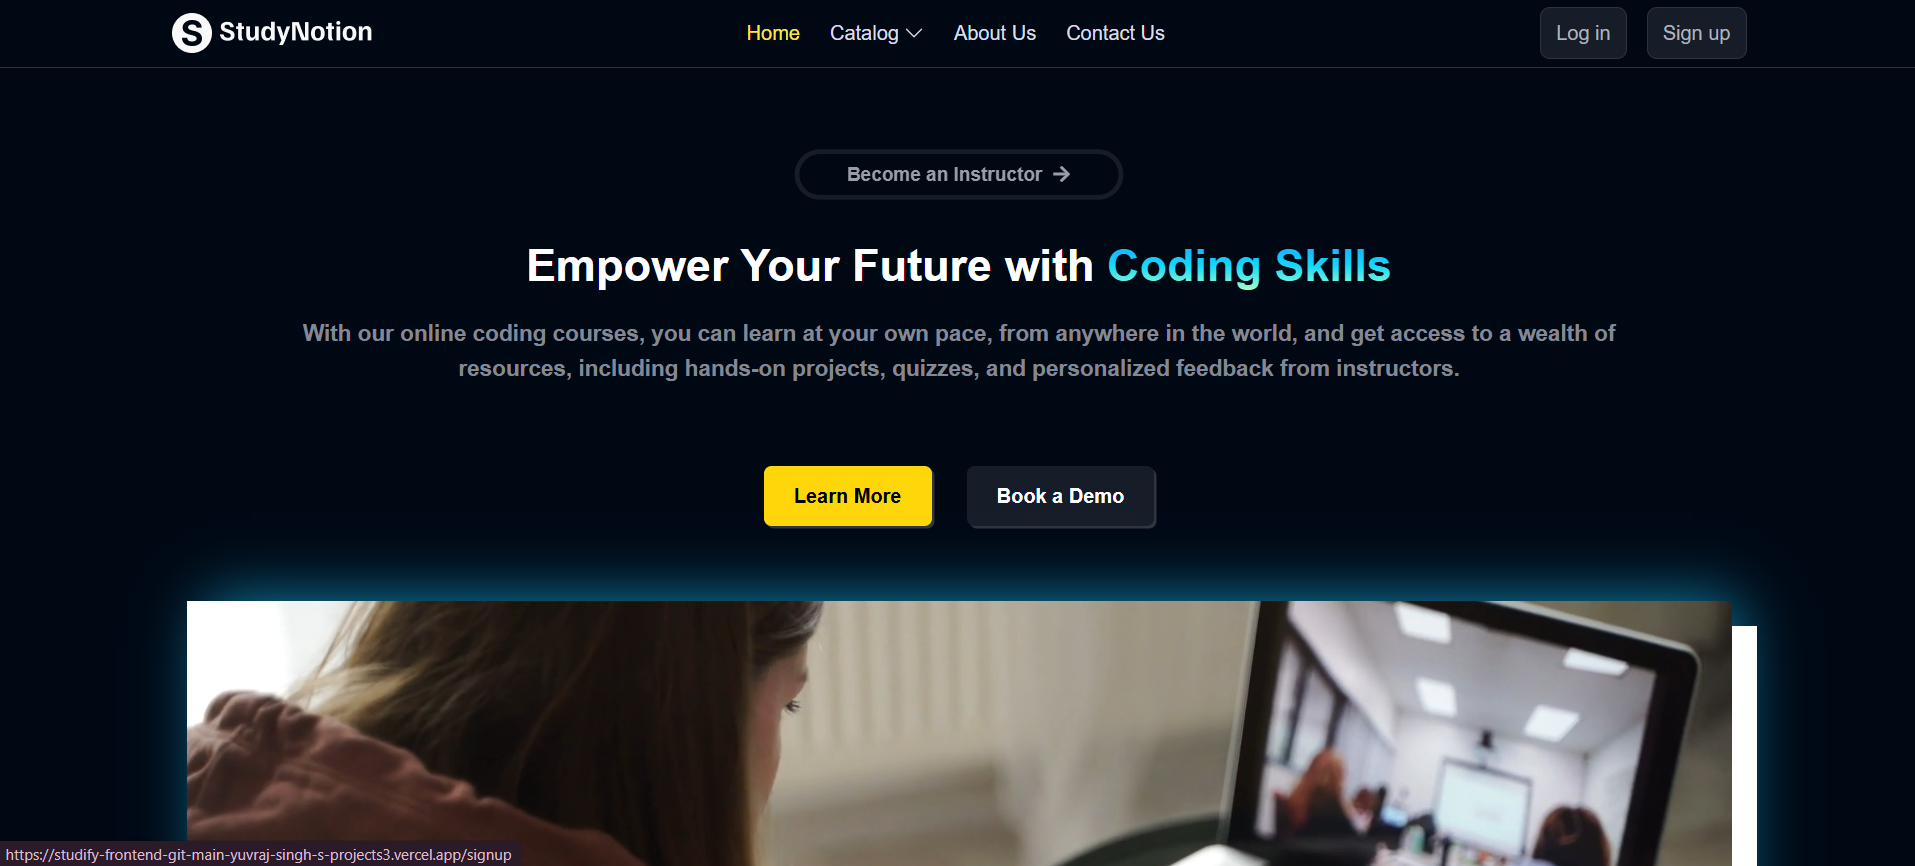
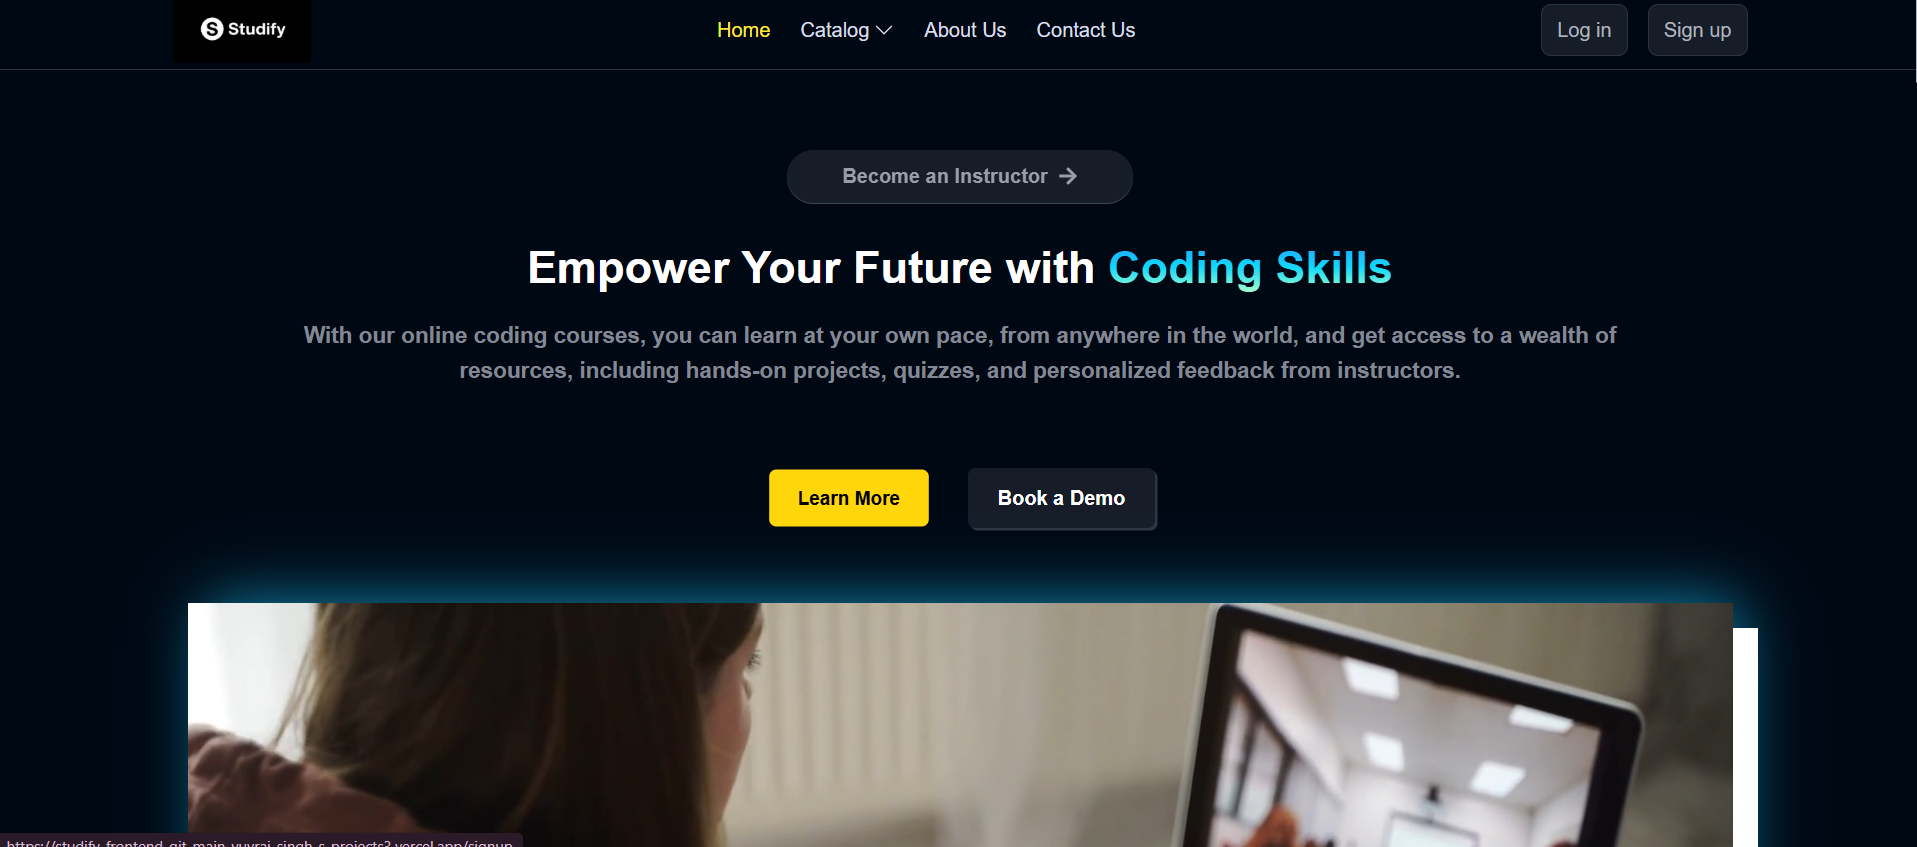
Update README and project screenshots

diff --git a/client/src/components/core/HomePage/InstructorSection.jsx b/client/src/components/core/HomePage/InstructorSection.jsx
@@ -1,44 +1,43 @@
-import React from 'react'
+import React from "react";
 import CTAButton from "../../../components/core/HomePage/Button";
 import { FaArrowRight } from "react-icons/fa";
 import Instructor from "../../../assets/Images/Instructor.png";
-import HighlightText from './HighlightText';
+import HighlightText from "./HighlightText";
 
 const InstructorSection = () => {
   return (
     <div>
-        <div className="flex flex-col lg:flex-row gap-20 items-center">
-          <div className="lg:w-[50%]">
-            <img
-              src={Instructor}
-              alt=""
-              className="shadow-white shadow-[-20px_-20px_0_0]"
-            />
-          </div>
-          <div className="lg:w-[50%] flex gap-10 flex-col">
-            <h1 className="lg:w-[50%] text-4xl font-semibold ">
-              Become an
-              <HighlightText text={"instructor"} />
-            </h1>
+      <div className="flex flex-col lg:flex-row gap-20 items-center">
+        <div className="lg:w-[50%]">
+          <img
+            src={Instructor}
+            alt=""
+            className="shadow-white shadow-[-20px_-20px_0_0]"
+          />
+        </div>
+        <div className="lg:w-[50%] flex gap-10 flex-col">
+          <h1 className="lg:w-[50%] text-4xl font-semibold">
+            Share Your <HighlightText text="Knowledge" />
+          </h1>
 
-            <p className="font-medium text-[16px] text-justify w-[90%] text-richblack-300">
-              Instructors from around the world teach millions of students on
-              StudyNotion. We provide the tools and skills to teach what you
-              love.
-            </p>
+          <p className="font-medium text-[16px] text-justify w-[90%] text-richblack-300">
+            Join Studify as an instructor and inspire thousands of learners by
+            creating high-quality courses. Share your expertise, reach a global
+            audience, and build your teaching career.
+          </p>
 
-            <div className="w-fit">
-              <CTAButton active={true} linkto={"/signup"}>
-                <div className="flex items-center gap-3">
-                  Start Teaching Today
-                  <FaArrowRight />
-                </div>
-              </CTAButton>
-            </div>
+          <div className="w-fit">
+            <CTAButton active={true} linkto={"/signup"}>
+              <div className="flex items-center gap-3">
+                Start Teaching
+                <FaArrowRight />
+              </div>
+            </CTAButton>
           </div>
         </div>
+      </div>
     </div>
-  )
-}
+  );
+};
 
-export default InstructorSection
+export default InstructorSection;

diff --git a/client/public/index.html b/client/public/index.html
@@ -4,22 +4,13 @@
 <head>
   <meta charset="utf-8" />
   <meta name="viewport" content="width=device-width, initial-scale=1" />
-  <title>React & Tailwind CSS Starter Pack</title>
+  <title>Studify | Learning Management System</title>
 </head>
 
 <body>
   <noscript>You need to enable JavaScript to run this app.</noscript>
   <div id="root"></div>
-  <!--
-      This HTML file is a template.
-      If you open it directly in the browser, you will see an empty page.
-
-      You can add webfonts, meta tags, or analytics to this file.
-      The build step will place the bundled scripts into the <body> tag.
-
-      To begin the development, run `npm start` or `yarn start`.
-      To create a production bundle, use `npm run build` or `yarn build`.
-    -->
+  
 </body>
 
 </html>

diff --git a/README.md b/README.md
@@ -36,19 +36,19 @@ https://studify-backend-7ghk.onrender.com
 
 ## Tech Stack
 
-Frontend
+### Frontend
 - React.js
 - Redux Toolkit
 - Tailwind CSS
 - React Router
 
-Backend
+### Backend
 - Node.js
 - Express.js
 - MongoDB
 - Mongoose
 
-Other Tools
+### Other Tools
 - Cloudinary
 - Razorpay
 - JWT Authentication
@@ -58,18 +58,11 @@ Other Tools
 
 ---
 
-
 ## 📸 Screenshots
 
 ### 🏠 Home Page
 
 ![Home Page](./screenshots/home-page.png)
-
----
-
-### 👤 Student Profile
-
-![Student Profile](./screenshots/student-profile.png)
 
 ---
 
@@ -79,23 +72,23 @@ Other Tools
 
 ---
 
-### 📚 Course Management
+### 👨🏫 Instructor Profile
 
-![Course Management](./screenshots/my-courses.png)
-
----
-
-### 💳 Razorpay Payment Gateway
-
-![Payment Gateway](./screenshots/payment-gateway.png)
+![Instructor Profile](./screenshots/instructor-profile.png)
 
 ---
 
-### ✅ Payment Successful
+### 👤 Student Profile
 
-![Payment Success](./screenshots/payment-success.png)
+![Student Profile](./screenshots/student-profile.png)
+
 ---
 
+### 📚 Enrolled Courses
+
+![Enrolled Courses](./screenshots/my-courses.png)
+
+---
 
 ## Run Locally
 
@@ -135,7 +128,7 @@ npm run dev
 
 ## Environment Variables
 
-Backend
+### Backend
 
 ```env
 PORT=
@@ -149,7 +142,7 @@ RAZORPAY_SECRET=
 CLIENT_URL=
 ```
 
-Frontend
+### Frontend
 
 ```env
 REACT_APP_BASE_URL=https://studify-backend-7ghk.onrender.com/api/v1
@@ -172,20 +165,22 @@ Building this project helped me understand:
 
 ---
 
+## Challenges Faced
+
+- Managing multiple user roles (Student & Instructor)
+- Integrating Razorpay payment verification
+- Handling secure JWT authentication
+- Uploading videos and images using Cloudinary
+- Deploying frontend and backend separately while configuring CORS
+
+---
+
 ## Author
 
-Yuvraj Singh
+**Yuvraj Singh**
 
 GitHub:
 https://github.com/yuv400
 
 LinkedIn:
 https://www.linkedin.com/in/yuvraj-singh-312581290/
-
-
-## Challenges Faced
-- Managing multiple user roles (Student & Instructor)
-- Integrating Razorpay payment verification
-- Handling secure JWT authentication
-- Uploading videos and images using Cloudinary
-- Deploying frontend and backend separately while configuring CORS
